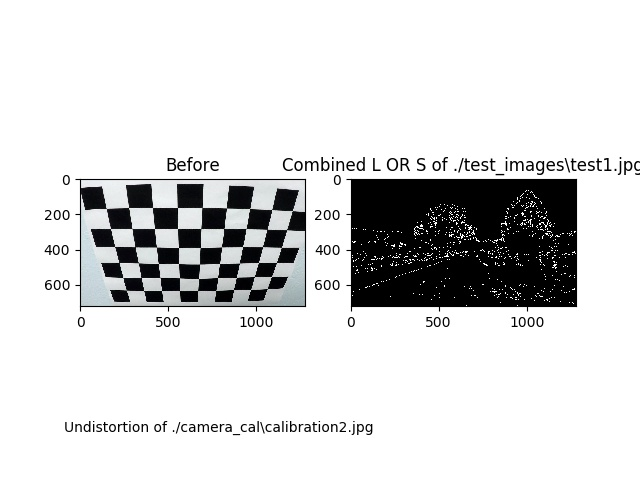
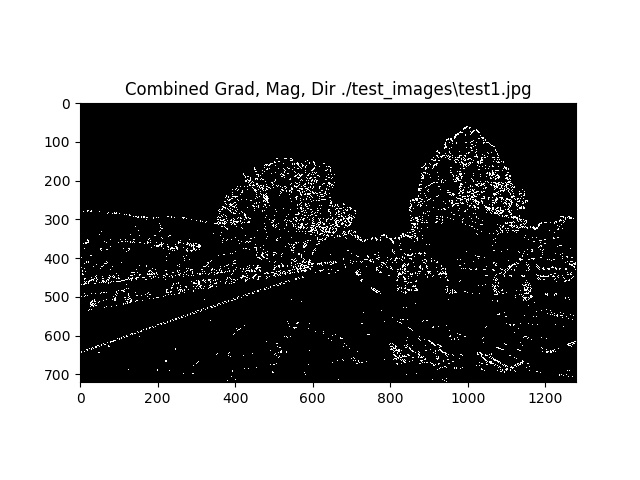
updated images

diff --git a/pipeline.py b/pipeline.py
@@ -150,7 +150,7 @@ def process_img(img, fname='video.jpg', save=False):
 
     if save:
         plt.imshow(combined, cmap="gray")
-        plt.title("Combined L OR S of {}".format(fname))
+        plt.title("Combined Grad, Mag, Dir {}".format(fname))
         plt.savefig(join(save_dir, "combined.jpg"))
 
     # combine grad, mag and dir with h and l channels
@@ -267,11 +267,11 @@ def process_img(img, fname='video.jpg', save=False):
 
         y_start = np.int(combined.shape[0] / 2)
         histogram = np.sum(combined[y_start:, :], axis=0)
-        plt.clf()
         if save:
+            plt.cla()
             plt.plot(histogram)
             plt.savefig(join(save_dir, "histogram.jpg"))
-        plt.clf()
+            plt.clf()
 
         # Find the peak of the left and right halves of the histogram
         # These will be the starting point for the left and right lines
@@ -357,6 +357,7 @@ def process_img(img, fname='video.jpg', save=False):
             plt.xlim(0, 1280)
             plt.ylim(720, 0)
             plt.savefig(join(save_dir, "plot.jpg"))
+            plt.cla()
 
     #######################
     ### Radius of curve ###
@@ -508,8 +509,8 @@ if __name__ == "__main__":
     ########################
 
     # test undistortion
-    test_fname = join(CAMERA_CALIBRATION_DIR, 'calibration2.jpg')
-    camera_cal.test(test_fname, save=False)
+    # test_fname = join(CAMERA_CALIBRATION_DIR, 'calibration2.jpg')
+    # camera_cal.test(test_fname, save=False)
 
     # test transform perspective - straight lines
     fname = "test_images/straight_lines1.jpg"
@@ -523,25 +524,27 @@ if __name__ == "__main__":
     undistorted_img = camera_cal.undistort(img)
     warped_img = camera_cal.setM().warp(undistorted_img)
 
+    plt.cla()
+
     #######################
     ### Pipeline Starts ###
     #######################
 
-    # for fname in [join(TEST_IMAGES_DIR, f) for f in listdir(TEST_IMAGES_DIR)]:
+    for fname in [join(TEST_IMAGES_DIR, f) for f in listdir(TEST_IMAGES_DIR)]:
+
+        if 'test1' in fname:
+            img = cv2.imread(fname)
+            img = camera_cal.undistort(img)
+            process_img(img, fname, save=True)
+
+    # from moviepy.editor import VideoFileClip
     #
-    #     if 'test1' in fname:
-    #         img = cv2.imread(fname)
-    #         img = camera_cal.undistort(img)
-    #         process_img(img, fname, save=False)
-
-    from moviepy.editor import VideoFileClip
-
-    white_output = 'project_video_out.mp4'
-    clip1 = VideoFileClip("project_video.mp4")
-    white_clip = clip1.fl_image(process_img)
-    white_clip.write_videofile(white_output, audio=False)
-
-    print("L: ", left_line_history)
-    print("R: ", right_line_history)
+    # white_output = 'project_video_out.mp4'
+    # clip1 = VideoFileClip("project_video.mp4")
+    # white_clip = clip1.fl_image(process_img)
+    # white_clip.write_videofile(white_output, audio=False)
+    #
+    # print("L: ", left_line_history)
+    # print("R: ", right_line_history)
 
 
